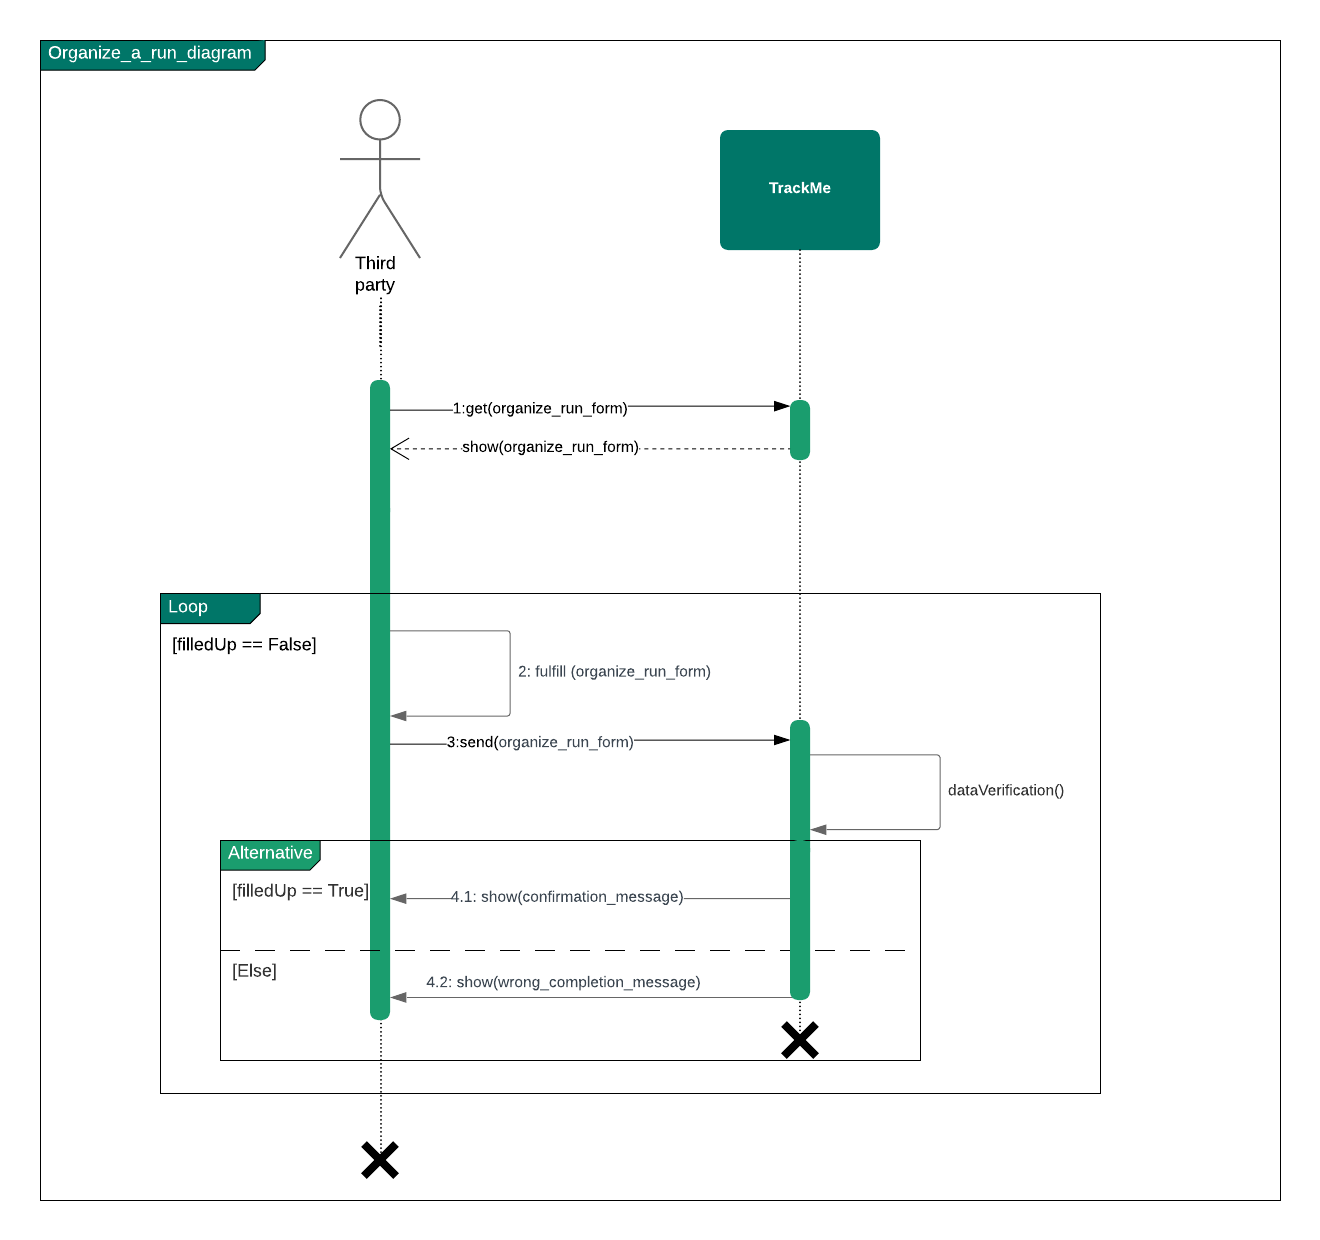
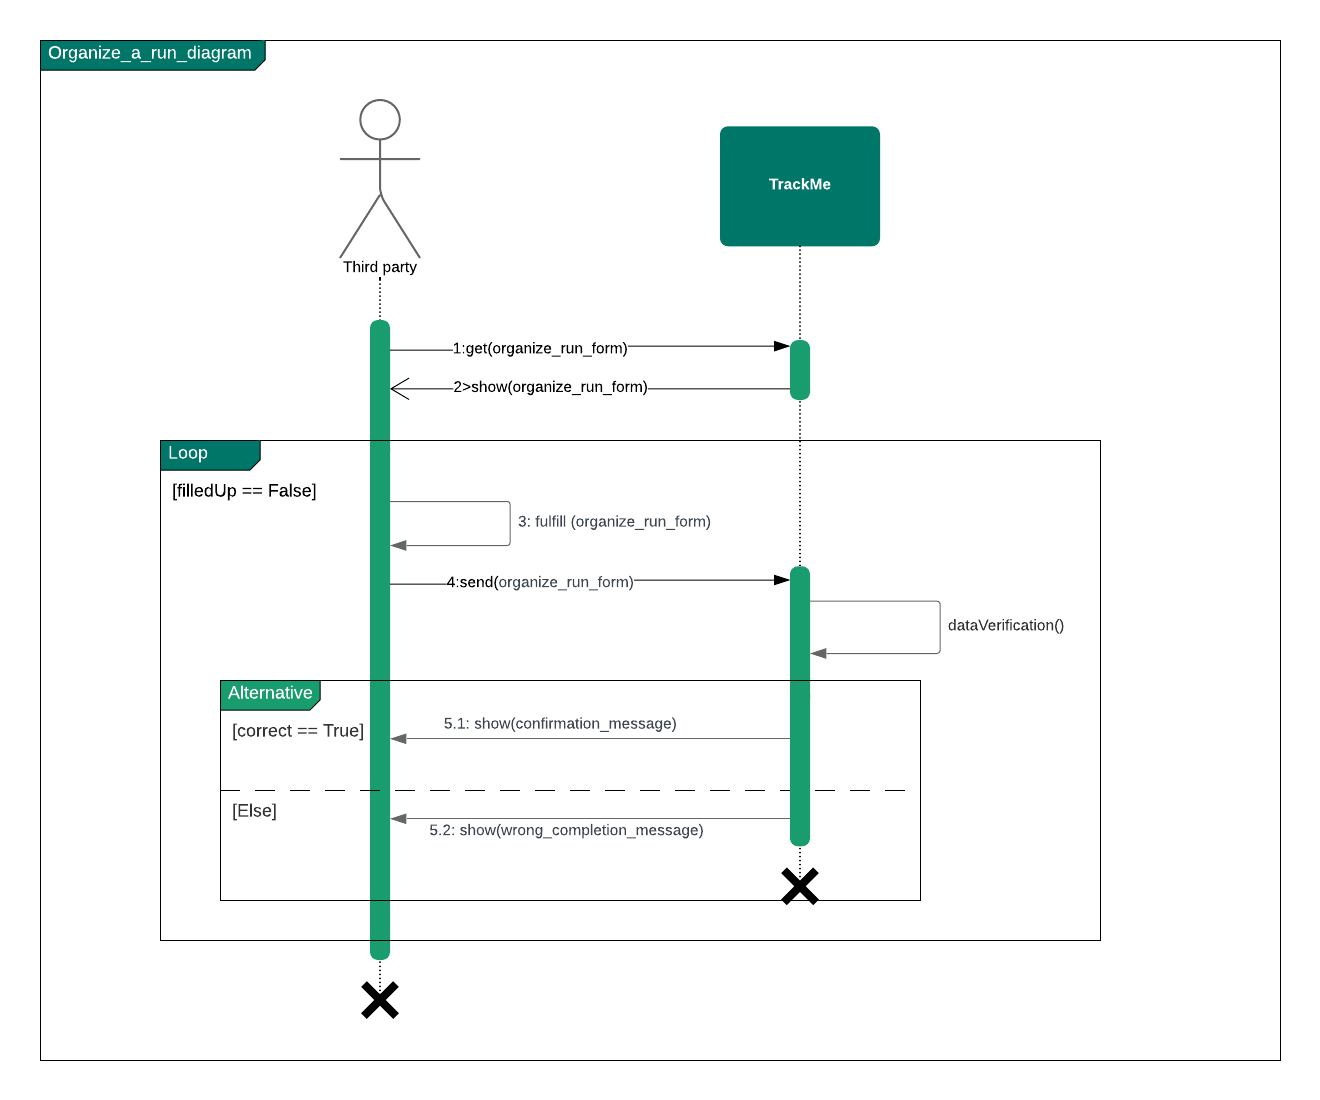
RASD updated (sequence diagrams)

diff --git a/RASD.tex b/RASD.tex
@@ -200,7 +200,6 @@ The following class diagram describes the structure of the TrackMe system, under
 			\end{figure}
 		\item \textit{Product functions} \\
 		{\normalfont
-		
 In the following section, the functions of the system are listed and more precisely specified, with
 respect to the already mentioned main services:
 		\begin{itemize}
@@ -553,15 +552,15 @@ The association WalkMore wants to promote walking among young people who have a 
 				\end{figure}
 			\item Group request - \textit{ Sequence diagram}
 				\begin{figure}[H]
-  				%\includegraphics[width=\linewidth]{./images/seq-diagrams/.png}
+  				\includegraphics[width=\linewidth]{./images/seq-diagrams/groupRequest.png}
 				\end{figure}
 			\item Join a run  - \textit{ Sequence diagram}
 				\begin{figure}[H]
-  				%\includegraphics[width=\linewidth]{./images/seq-diagrams/.png}
+  				\includegraphics[width=\linewidth]{./images/seq-diagrams/joinARun.png}
 				\end{figure}
 			\item Organize a run - \textit{ Sequence diagram}
 				\begin{figure}[H]
-  				%\includegraphics[width=\linewidth]{./images/seq-diagrams/.png}
+  				\includegraphics[width=\linewidth]{./images/seq-diagrams/organizeARun.png}
 				\end{figure}
 			\item Join a run  - \textit{ Activity diagram}
 				\begin{figure}[H]
@@ -717,7 +716,7 @@ The association WalkMore wants to promote walking among young people who have a 
 			{\normalfont The system front-end will be a web app, runnable on the majority of browsers but also natively on Android and IOS.}
 			\\
 			\item Safety\\
-			{\normalfont The communication between the client and server is protected through a protocol such as HTTPS. The principal motivation is authentication of the accessed website and protection of the privacy and integrity of the exchanged data while in transit. It protects against man-in-the-middle attacks. The bidirectional encryption of communications between a client and server protects against eavesdropping and tampering of the communication. In practice, this provides a reasonable assurance that one is communicating without interference by attackers with the website that one intended to communicate with, as opposed to an impostor. }
+			{\normalfont The communication between the client and server is protected through a protocol such as HTTPS. The principal motivation is authentication of the accessed website and protection of the privacy and integrity of the exchanged data while in transit. It protects against man-in-the-middle attacks. The bidirectional encryption of communications between a client and server protects against eavesdropping and tampering of the communication. In practice, this provides a reasonable assurance that one is communicating without interference by attackers with the website that one intended to communicate with, as opposed to an impostor. 			}
 			\\
 		\end{legal}
 		\end{legal}
